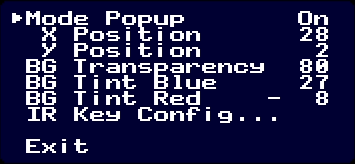
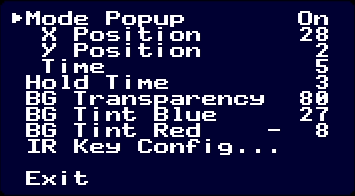
GCVideo-DVI version 3.1.3
Adds two more options "Time" and "Hold Time".

diff --git a/Firmware/screen_osdsettings.c b/Firmware/screen_osdsettings.c
@@ -42,6 +42,8 @@ enum {
   MENUITEM_RESBOX,
   MENUITEM_RESBOX_X,
   MENUITEM_RESBOX_Y,
+  MENUITEM_RESBOX_TIME,
+  MENUITEM_HOLD_TIME,
   MENUITEM_ALPHA,
   MENUITEM_TINTCB,
   MENUITEM_TINTCR,
@@ -51,39 +53,45 @@ enum {
 
 /* --- valueitems --- */
 
-static valueitem_t value_resbox   = { VALTYPE_BOOL,     true,
-                                      { .field = { &resbox_enabled,  8, 24, VIFLAG_REDRAW }} };
-static valueitem_t value_resbox_x = { VALTYPE_RESBOX_X, true,
-                                      { .field = { &resbox_x,        8, 24, 0 }} };
-static valueitem_t value_resbox_y = { VALTYPE_RESBOX_Y, true,
-                                      { .field = { &resbox_y,        8, 24, 0 }} };
-static valueitem_t value_alpha    = { VALTYPE_BYTE,     true,
-                                      { .field = { &osdbg_settings, 32, VIDEOIF_OSDBG_ALPHA_SHIFT,  VIFLAG_UPDATE_VIDEOIF }} };
-static valueitem_t value_tint_cb  = { VALTYPE_SBYTE_99, true,
-                                      { .field = { &osdbg_settings,  8, VIDEOIF_OSDBG_TINTCB_SHIFT,
-                                                   VIFLAG_UPDATE_VIDEOIF | VIFLAG_SBYTE }} };
-static valueitem_t value_tint_cr  = { VALTYPE_SBYTE_99, true,
-                                      { .field = { &osdbg_settings,  8, VIDEOIF_OSDBG_TINTCR_SHIFT,
-                                                   VIFLAG_UPDATE_VIDEOIF | VIFLAG_SBYTE }} };
+static valueitem_t value_resbox      = { VALTYPE_BOOL,        true,
+                                         { .field = { &resbox_enabled,  8, 24, VIFLAG_REDRAW }} };
+static valueitem_t value_resbox_x    = { VALTYPE_RESBOX_X,    true,
+                                         { .field = { &resbox_x,        8, 24, 0 }} };
+static valueitem_t value_resbox_y    = { VALTYPE_RESBOX_Y,    true,
+                                         { .field = { &resbox_y,        8, 24, 0 }} };
+static valueitem_t value_resbox_time = { VALTYPE_RESBOX_TIME, true,
+                                         { .field = { &resbox_time,     4, 24, 0 }} };
+static valueitem_t value_hold_time   = { VALTYPE_RESBOX_TIME, true,
+                                         { .field = { &resbox_time,     4, 28, 0 }} };
+static valueitem_t value_alpha       = { VALTYPE_BYTE,        true,
+                                         { .field = { &osdbg_settings, 32, VIDEOIF_OSDBG_ALPHA_SHIFT,  VIFLAG_UPDATE_VIDEOIF }} };
+static valueitem_t value_tint_cb     = { VALTYPE_SBYTE_99,    true,
+                                         { .field = { &osdbg_settings,  8, VIDEOIF_OSDBG_TINTCB_SHIFT,
+                                                      VIFLAG_UPDATE_VIDEOIF | VIFLAG_SBYTE }} };
+static valueitem_t value_tint_cr     = { VALTYPE_SBYTE_99,    true,
+                                         { .field = { &osdbg_settings,  8, VIDEOIF_OSDBG_TINTCR_SHIFT,
+                                                      VIFLAG_UPDATE_VIDEOIF | VIFLAG_SBYTE }} };
 
 /* --- menu definition --- */
 
 static void osdset_draw(menu_t *menu);
 
 static menuitem_t osdset_items[] = {
-  { "Mode Popup",       &value_resbox,   1, 0 }, // 0
-  { " X Position",      &value_resbox_x, 2, 0 }, // 1
-  { " Y Position",      &value_resbox_y, 3, 0 }, // 2
-  { "BG Transparency",  &value_alpha,    4, 0 }, // 3
-  { "BG Tint Blue",     &value_tint_cb,  5, 0 }, // 4
-  { "BG Tint Red",      &value_tint_cr,  6, 0 }, // 5
-  { "IR Key Config...", NULL,            7, 0 }, // 6
-  { "Exit",             NULL,            9, 0 }, // 7
+  { "Mode Popup",       &value_resbox,      1, 0 }, // 0
+  { " X Position",      &value_resbox_x,    2, 0 }, // 1
+  { " Y Position",      &value_resbox_y,    3, 0 }, // 2
+  { " Time",            &value_resbox_time, 4, 0 }, // 3
+  { "Hold Time",        &value_hold_time,   5, 0 }, // 4
+  { "BG Transparency",  &value_alpha,       6, 0 }, // 5
+  { "BG Tint Blue",     &value_tint_cb,     7, 0 }, // 6
+  { "BG Tint Red",      &value_tint_cr,     8, 0 }, // 7
+  { "IR Key Config...", NULL,               9, 0 }, // 8
+  { "Exit",             NULL,              11, 0 }, // 9
 };
 
 static menu_t osdset_menu = {
-  11, 9,
-  23, 11,
+  11, 7,
+  23, 13,
   osdset_draw,
   sizeof(osdset_items) / sizeof(*osdset_items),
   osdset_items
@@ -91,11 +99,13 @@ static menu_t osdset_menu = {
 
 static void osdset_draw(menu_t *menu) {
   if (resbox_enabled) {
-    osdset_items[MENUITEM_RESBOX_X].flags = 0;
-    osdset_items[MENUITEM_RESBOX_Y].flags = 0;
+    osdset_items[MENUITEM_RESBOX_X].flags    = 0;
+    osdset_items[MENUITEM_RESBOX_Y].flags    = 0;
+    osdset_items[MENUITEM_RESBOX_TIME].flags = 0;
   } else {
-    osdset_items[MENUITEM_RESBOX_X].flags = MENU_FLAG_DISABLED;
-    osdset_items[MENUITEM_RESBOX_Y].flags = MENU_FLAG_DISABLED;
+    osdset_items[MENUITEM_RESBOX_X].flags    = MENU_FLAG_DISABLED;
+    osdset_items[MENUITEM_RESBOX_Y].flags    = MENU_FLAG_DISABLED;
+    osdset_items[MENUITEM_RESBOX_TIME].flags = MENU_FLAG_DISABLED;
   }
 }
 

diff --git a/Firmware/settings-main.c b/Firmware/settings-main.c
@@ -39,7 +39,7 @@
 #include "vsync.h"
 #include "settings.h"
 
-#define SETTINGS_VERSION 7 // bump if current reader cannot read older settings anymore
+#define SETTINGS_VERSION 8 // bump if current reader cannot read older settings anymore
 
 typedef struct {
   uint8_t  version;
@@ -63,6 +63,7 @@ typedef struct {
   int8_t   yshift;
   uint8_t  resbox_x;
   uint8_t  resbox_y;
+  uint8_t  resbox_time;
   // scanline settings are stored seperately
 } storedsettings_t;
 
@@ -112,6 +113,7 @@ minibool     scanline_custom;
 minibool     crop_486_to_480;
 uint8_t      resbox_x;
 uint8_t      resbox_y;
+uint8_t      resbox_time;
 
 static uint16_t current_setid;
 
@@ -273,6 +275,7 @@ void settings_load(void) {
   screen_y_shift     = set.st.yshift;
   resbox_x           = set.st.resbox_x;
   resbox_y           = set.st.resbox_y;
+  resbox_time        = set.st.resbox_time;
 
   spiflash_start_read(SETTINGS_OFFSET + ((current_setid + 2) << 8));
   for (unsigned int i = 256; i < SCANLINERAM_ENTRIES; i ++) {
@@ -311,6 +314,7 @@ void settings_save(void) {
   set.st.yshift                = screen_y_shift;
   set.st.resbox_x              = resbox_x;
   set.st.resbox_y              = resbox_y;
+  set.st.resbox_time           = resbox_time;
 
   memcpy(set.st.ir_codes, ir_codes, sizeof(ir_codes));
   memcpy(set.st.video_settings, video_settings, sizeof(video_settings));
@@ -367,6 +371,7 @@ void settings_init(void) {
   resbox_enabled = true;
   resbox_x       = RESBOX_X;
   resbox_y       = RESBOX_Y;
+  resbox_time    = 53;
 
   video_settings_global = VIDEOIF_SET_ENABLEREBLANK | VIDEOIF_SET_ENABLERESYNC |
                           VIDEOIF_SET_CABLEDETECT   | VIDEOIF_SET_CHROMAINTERP;

diff --git a/Firmware/screen_idle.c b/Firmware/screen_idle.c
@@ -39,7 +39,6 @@
 #include "screens.h"
 #include "settings.h"
 
-#define RESBOX_TIME (5 * HZ)
 #define RESBOX_XS   12
 #define RESBOX_YS   3
 
@@ -54,7 +53,7 @@ void screen_idle(void) {
 
     /* check for menu button combination on controller */
     if ((pad_buttons & (PAD_L | PAD_R | PAD_X | PAD_Y)) == (PAD_L | PAD_R | PAD_X | PAD_Y) &&
-        time_after(now, pad_last_change + HZ)) {
+        time_after(now, pad_last_change + (resbox_time >> 4) * 100)) {
       if (pad_buttons & PAD_START) {
         /* restore defaults */
         settings_init();
@@ -87,7 +86,7 @@ void screen_idle(void) {
 
       /* print resolution box */
       if (resbox_enabled && current_videomode != VIDMODE_NONSTANDARD) {
-        resbox_timeout = now + RESBOX_TIME;
+        resbox_timeout = now + (resbox_time & 0x0F) * HZ;
         resbox_active  = true;
 
         osd_drawborder(resbox_x, resbox_y, RESBOX_XS, RESBOX_YS);

diff --git a/Firmware/menu.c b/Firmware/menu.c
@@ -67,6 +67,7 @@ static const cliprange_t clipranges[] = {
   [ VALTYPE_COLORMODE ]    = {     0,    3 -1 },
   [ VALTYPE_RESBOX_X ]     = {     0,   33 -1 },
   [ VALTYPE_RESBOX_Y ]     = {     0,   27 -1 },
+  [ VALTYPE_RESBOX_TIME ]  = {     1,   15 -1 },
 };
 
 static const uint8_t value_widths[] = {
@@ -84,6 +85,7 @@ static const uint8_t value_widths[] = {
   [ VALTYPE_COLORMODE ]    = 7,
   [ VALTYPE_RESBOX_X ]     = 6,
   [ VALTYPE_RESBOX_Y ]     = 6,
+  [ VALTYPE_RESBOX_TIME ]  = 6,
 };
 
 /* (un)draw marker on a menu item */
@@ -221,6 +223,7 @@ static void print_value(menu_t *menu, unsigned int itemnum) {
   case VALTYPE_SLINDEX:
   case VALTYPE_RESBOX_X:
   case VALTYPE_RESBOX_Y:
+  case VALTYPE_RESBOX_TIME:
     printf("%4d", value);
     break;
 

diff --git a/Firmware/settings.h b/Firmware/settings.h
@@ -69,6 +69,7 @@ extern minibool     scanline_custom;
 extern minibool     crop_486_to_480;
 extern uint8_t      resbox_x;
 extern uint8_t      resbox_y;
+extern uint8_t      resbox_time;
 
 void set_all_modes(uint32_t flag, bool state);
 void update_scanlines(void);

diff --git a/Firmware/menu.h b/Firmware/menu.h
@@ -50,6 +50,7 @@ typedef enum {
   VALTYPE_COLORMODE,    // 0 to 3 shown as RGBF, RGBL, Y444, Y422
   VALTYPE_RESBOX_X,     // 0 to 33
   VALTYPE_RESBOX_Y,     // 0 to 27
+  VALTYPE_RESBOX_TIME,  // 1 to 15
 } valuetype_t;
 
 #define VIFLAG_REDRAW         (1<<0)

diff --git a/Firmware/README.md b/Firmware/README.md
@@ -299,11 +299,15 @@ move the 480 line window that GCVideo shows within GBI's 486-line signal.
 
 ### OSD Settings ###
 
-The OSD settings menu has an option to disable the mode popup that shows for
-five secends whenever the console changes its output resolution as well
-as two settings "X Position" and "Y Position" to change the popup location.
+The OSD settings menu has an option to disable the mode popup that shows
+whenever the console changes its output resolution as well as three settings
+"X Position", "Y Position" to change the popup location and "Time" to set
+how many seconds will be displayed on screen.
 
 ![OSD Settings menu](doc/osd.png)
+
+The duration of holding the button combination for activating the OSD is
+determined by the "Hold Time" option, adjusted by one third of a second.
 
 The "BG Transparency" determines how much the console's image shines through
 the OSD and has a range from 0 to 255. At 0, the console's image is not

diff --git a/README.md b/README.md
@@ -1,8 +1,10 @@
 # GCVideo #
 
-## This fork adds two extra settings to the OSD menu
-- "X Position" moves the resolution popup box horizontally.
-- "Y Position" moves the resolution popup box vertically.
+## This fork adds four extra settings to the OSD menu
+- "X Position" and "Y Position" move the resolution popup box.
+- "Time" changes how many seconds the popup box is displayed.
+- "Hold Time" controls how quickly the GCVideo menu appears.  
+Increase to fix the 8bitDo Bluetooth receiver compatibility.
 
 ![OSD Settings menu](Firmware/doc/osd.png)
 
